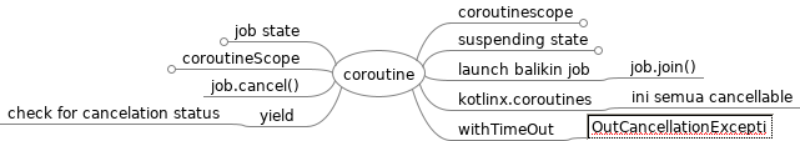
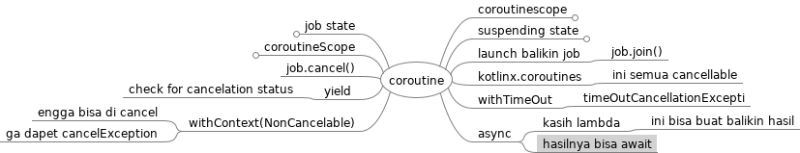
update lecture notes

Changed region(s): [[0.0, 0.0284, 1.0, 1.0], [0.5, 0.3121, 0.5312, 0.3404], [0.25, 0.3121, 0.2812, 0.3404]]

diff --git a/coroutine.mm b/coroutine.mm
@@ -31,7 +31,17 @@
 <node CREATED="1649783217202" ID="ID_1022606141" MODIFIED="1649783223379" TEXT="check for cancelation status"/>
 </node>
 <node CREATED="1649783850461" ID="ID_1572980495" MODIFIED="1649783856441" POSITION="right" TEXT="withTimeOut">
-<node CREATED="1649784083202" ID="ID_465149839" MODIFIED="1649784083202" TEXT=""/>
+<node CREATED="1649784083202" ID="ID_465149839" MODIFIED="1649784114264" TEXT="timeOutCancellationExcepti"/>
+</node>
+<node CREATED="1649874855141" ID="ID_1956437724" MODIFIED="1649874866165" POSITION="left" TEXT="withContext(NonCancelable)">
+<node CREATED="1649874866417" ID="ID_1013674813" MODIFIED="1649874871311" TEXT="engga bisa di cancel"/>
+<node CREATED="1649874871546" ID="ID_1026987470" MODIFIED="1649874882079" TEXT="ga dapet cancelException"/>
+</node>
+<node CREATED="1649875229558" ID="ID_422748829" MODIFIED="1649875232929" POSITION="right" TEXT="async">
+<node CREATED="1649875233214" ID="ID_346844593" MODIFIED="1649875236085" TEXT="kasih lambda">
+<node CREATED="1649875237484" ID="ID_567821968" MODIFIED="1649875245986" TEXT="ini bisa buat balikin hasil"/>
+</node>
+<node CREATED="1649875502446" ID="ID_1088581640" MODIFIED="1649875511021" TEXT="hasilnya bisa await"/>
 </node>
 </node>
 </map>
